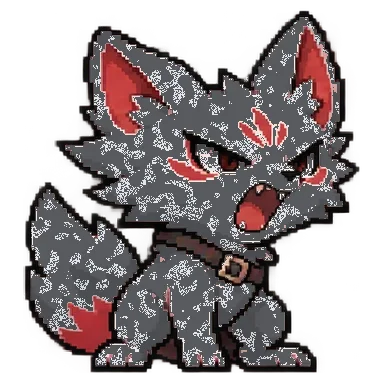
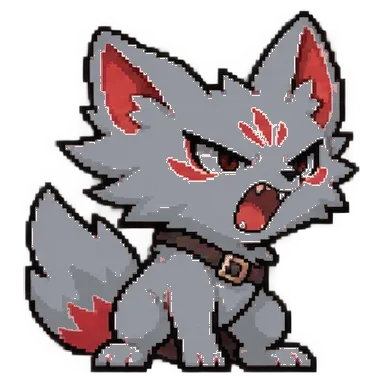
Rush: common colourways are plain recolours suited to each animal
Claude-Session: https://claude.ai/code/session_01BQSd4ftyBkNms49NmCfmYW

diff --git a/public/rush/index.html b/public/rush/index.html
@@ -735,17 +735,17 @@ function nickFor(s){const L=s.log||[];if(!L.length)return pick(['Ghost','Boots',
   if(late)return 'Photo Finish';if(avgM<=10)return 'Quickdraw';if(avgM>=45)return 'Marathon';if(avgSt>=3)return 'Checklist';if(early>=L.length*.6)return 'Early Bird';
   return {speedy:'Zoom',tough:'Iron',glutton:'Snacks',eager:'Keen'}[s.trait]||pick(['Ghost','Boots','Sparky','Ace','Tank'])}
 const dname=s=>s.nick?`${s.name} "${s.nick}"`:s.name;
-function ensure(s){if(OLDCOAT[s.coat])s.coat=OLDCOAT[s.coat];if(!s.story)s.story=rollStory();if(!s.storySeen)s.storySeen=Math.min(rankOf(s.xp||0),1);if(s.hue){s.hue=0;s.coat='classic'}if(s.coat!=='galaxy'&&!coatsFor(s.sp).includes(s.coat))s.coat='classic';if(!s.pers)s.pers=pick(PERS);if(!s.tic)s.tic=pick(TICS);if(!s.call)s.call=pick(CALLS);if(!s.catch)s.catch=makeCatch();if(!s.log)s.log=[];if(s.nick===undefined)s.nick=null;if(!s.born)s.born=Date.now()}
+function ensure(s){if(OLDCOAT[s.coat]&&!coatsFor(s.sp).includes(s.coat))s.coat=OLDCOAT[s.coat];if(!s.story)s.story=rollStory();if(!s.storySeen)s.storySeen=Math.min(rankOf(s.xp||0),1);if(s.hue){s.hue=0;s.coat='classic'}if(s.coat!=='galaxy'&&!coatsFor(s.sp).includes(s.coat))s.coat='classic';if(!s.pers)s.pers=pick(PERS);if(!s.tic)s.tic=pick(TICS);if(!s.call)s.call=pick(CALLS);if(!s.catch)s.catch=makeCatch();if(!s.log)s.log=[];if(s.nick===undefined)s.nick=null;if(!s.born)s.born=Date.now()}
 
 
 const rankOf=xp=>{let r=1;XP_AT.forEach((v,i)=>{if(xp>=v)r=i+1});return r};
 const pct=xp=>{const r=rankOf(xp);return r>=5?100:Math.round((xp-XP_AT[r-1])/(XP_AT[r]-XP_AT[r-1])*100)};
 const SIZE=[70,79,87,94,100];
 /* coats: half of recruits get a common colourway; rare 1 in 20, legendary 1 in 60. Only the body is recoloured, pre-rendered in img/coats */
-const COMMON={gorilla:['mountain','lowland','ginger'],kitsune:['red','silver','marble'],giraffe:['reticulated','masai','kordofan'],shoebill:['juvenile','storm','dusty'],octopus:['blueringed','mimic','common'],bee:['carpenter','orchid','leafcutter'],jorts:['acidwash','bleached','khaki'],vase:['celadon','imari','famillerose']};
-const OLDCOAT={jet:'mountain',sandy:'lowland',redfox:'red',sand:'marble',arctic:'silver',midnight:'masai',chestnut:'reticulated',blonde:'kordofan',slate:'storm',mocha:'juvenile',dusk:'dusty',coral:'common',amber:'mimic',cobalt:'blueringed',frost:'leafcutter',lime:'orchid',rose:'carpenter',rawindigo:'bleached',pinkdenim:'khaki',imperialred:'imari',saffron:'famillerose'};
+const COMMON={gorilla:['mountain','lowland','ginger'],kitsune:['red','silver','fennec'],giraffe:['reticulated','masai','kordofan'],shoebill:['juvenile','storm','dusty'],octopus:['common','golden','sandy'],bee:['carpenter','orchid','leafcutter'],jorts:['acidwash','stonewash','khaki'],vase:['celadon','imari','famillerose']};
+const OLDCOAT={jet:'mountain',sandy:'lowland',redfox:'red',sand:'fennec',arctic:'silver',midnight:'masai',chestnut:'reticulated',blonde:'kordofan',slate:'storm',mocha:'juvenile',dusk:'dusty',coral:'common',amber:'golden',cobalt:'common',marble:'fennec',blueringed:'common',mimic:'sandy',bleached:'stonewash',frost:'leafcutter',lime:'orchid',rose:'carpenter',rawindigo:'stonewash',pinkdenim:'khaki',imperialred:'imari',saffron:'famillerose'};
 const SPCOATS={kitsune:['shadow'],giraffe:['albino'],shoebill:['snowy','raven'],gorilla:['silverback'],octopus:['crimson','deepsea'],bee:['hornet'],jorts:['blackdenim'],vase:[]};
-const COATNAME={mountain:'Mountain',lowland:'Lowland',ginger:'Ginger',red:'Red',silver:'Silver',marble:'Marble',reticulated:'Reticulated',masai:'Masai',kordofan:'Kordofan',juvenile:'Juvenile',storm:'Storm',dusty:'Dusty',blueringed:'Blue-ringed',mimic:'Mimic',common:'Common',carpenter:'Carpenter',orchid:'Orchid',leafcutter:'Leafcutter',acidwash:'Acid Wash',bleached:'Bleached',khaki:'Khaki',celadon:'Celadon',imari:'Imari',famillerose:'Famille Rose',camo:'Camo',noir:'Noir',galaxy:'Galaxy',shadow:'Shadow',albino:'Albino',snowy:'Snowy',raven:'Raven',silverback:'Silverback',crimson:'Crimson',deepsea:'Deep Sea',hornet:'Hornet',blackdenim:'Black Denim'};
+const COATNAME={mountain:'Mountain',lowland:'Lowland',ginger:'Ginger',red:'Red',silver:'Silver',fennec:'Fennec',reticulated:'Reticulated',masai:'Masai',kordofan:'Kordofan',juvenile:'Juvenile',storm:'Storm',dusty:'Dusty',golden:'Golden',sandy:'Sandy',common:'Common',carpenter:'Carpenter',orchid:'Orchid',leafcutter:'Leafcutter',acidwash:'Acid Wash',stonewash:'Stonewash',khaki:'Khaki',celadon:'Celadon',imari:'Imari',famillerose:'Famille Rose',camo:'Camo',noir:'Noir',galaxy:'Galaxy',shadow:'Shadow',albino:'Albino',snowy:'Snowy',raven:'Raven',silverback:'Silverback',crimson:'Crimson',deepsea:'Deep Sea',hornet:'Hornet',blackdenim:'Black Denim'};
 const LEGEND=['galaxy'],RARE=['camo','noir',...new Set(Object.values(SPCOATS).flat())];
 const coatsFor=sp=>[...(COMMON[sp]||[]),'camo','noir',...(SPCOATS[sp]||[])],rareFor=sp=>['camo','noir',...(SPCOATS[sp]||[])];
 const coatTier=c=>LEGEND.includes(c)?'LEGENDARY':RARE.includes(c)?'RARE':'';
